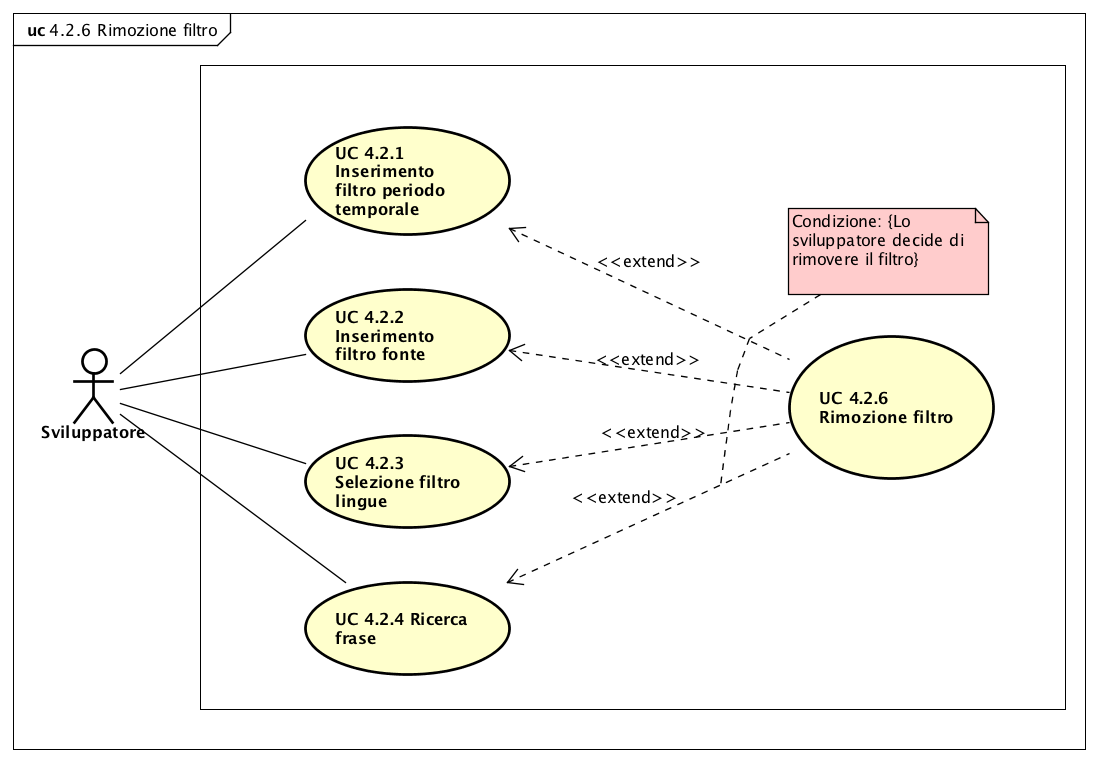
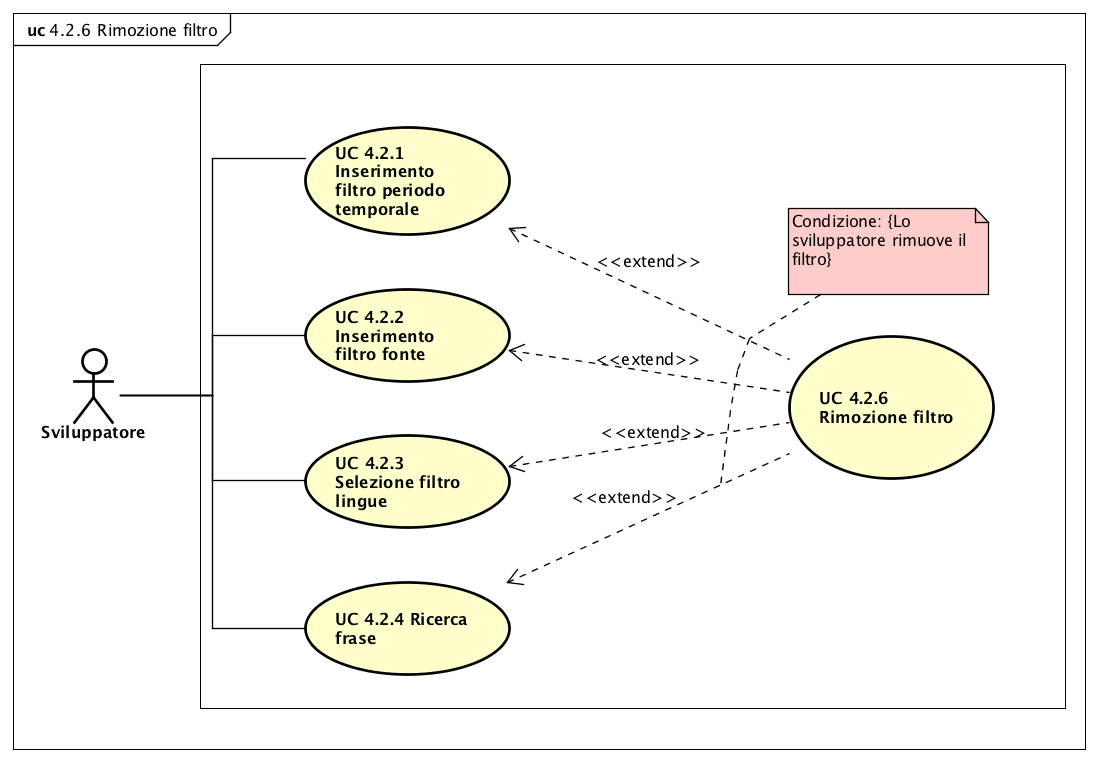
Aggiustato sviluppatore

diff --git a/RR - SWEight/Analisi_dei_requisiti/sez/sviluppatori.tex b/RR - SWEight/Analisi_dei_requisiti/sez/sviluppatori.tex
@@ -2,7 +2,7 @@
 \subsubsection{Panoramica Sviluppatore}
 \begin{figure}[H]
 \centering
-\includegraphics[width=17cm, height = 14cm]{img/UC4x.png} 
+\includegraphics[width=17cm, height = 19cm]{img/UC4x.png} 
 \caption{Panoramica casi d'uso che interessano lo Sviluppatore, per le versioni più specifiche dei vari casi si vedano sotto}\label{fig:4x}
 \end{figure}
 \subsubsection{UC 4.1 - Visualizzazione elenco frasi}
@@ -60,7 +60,7 @@
 \end{enumerate}
 \item[•]\textbf{Estensioni}: 
 \begin{enumerate}
-	\item Visualizzazione messaggio di errore nel caso si scegliesse una data non idonea;
+	\item UC 4.2.1.1 - Visualizzazione messaggio errore data errata;
 	\item UC 4.2.6 - Rimozione filtro;
 \end{enumerate}
 \item[•]\textbf{Inclusioni}:
@@ -112,7 +112,7 @@
 \item[•]\textbf{Flusso degli eventi}: Lo sviluppatore seleziona da un elenco le lingue di cui è interessato vedere le proposizioni memorizzate;
 \item[•]\textbf{Estensioni}: 
 \begin{enumerate}
-	\item Visualizzazione messaggio di errore nel caso venga inserito un input non consentito;
+	\item UC 4.2.4.1 - Visualizzazione messaggio di errore input errato;
 	\item UC 4.2.6 - Rimozione filtro;
 \end{enumerate}
 \item[•]\textbf{Inclusioni}:
@@ -142,15 +142,15 @@
 \begin{itemize}
 	\item[•]\textbf{Attori}: Sviluppatore;
 	\item[•]\textbf{Descrizione}: Lo sviluppatore visualizza un messaggio di errore sul periodo selezionato.
-	\item[•]\textbf{Precondizione}: Il sistema offre la possibilità di filtrare i dati scegliendo un dato periodo temporale.
+	\item[•]\textbf{Precondizione}: Lo sviluppatore ha inserito una data non conforme all'interno del filtro relativo al periodo temporale.
 	\item[•]\textbf{Postcondizione}: Il filtro è stato erroneamente inserito pertanto viene visualizzato un messaggio di errore.
 \end{itemize}
 \subsubsection{UC 4.2.4.1 - Visualizzazione messaggio errore input errato}
 \begin{itemize}
 	\item[•]\textbf{Attori}: Sviluppatore;
 	\item[•]\textbf{Descrizione}: Lo sviluppatore visualizza un messaggio di errore sulla ricerca.
-	\item[•]\textbf{Precondizione}: Il sistema offre la possibilità di cercare una specifica frase.
-	\item[•]\textbf{Postcondizione}: l'input della frase è stato erroneamente inserito pertanto viene visualizzato un messaggio di errore.
+	\item[•]\textbf{Precondizione}: Lo sviluppatore ha inserito una frase non conforme.
+	\item[•]\textbf{Postcondizione}: Lo sviluppatore visualizza un messaggio di errore relativo all'inserimento di un input errato, cioè non conforme a ciò che il sistema si attendeva.
 \end{itemize}
 
   
